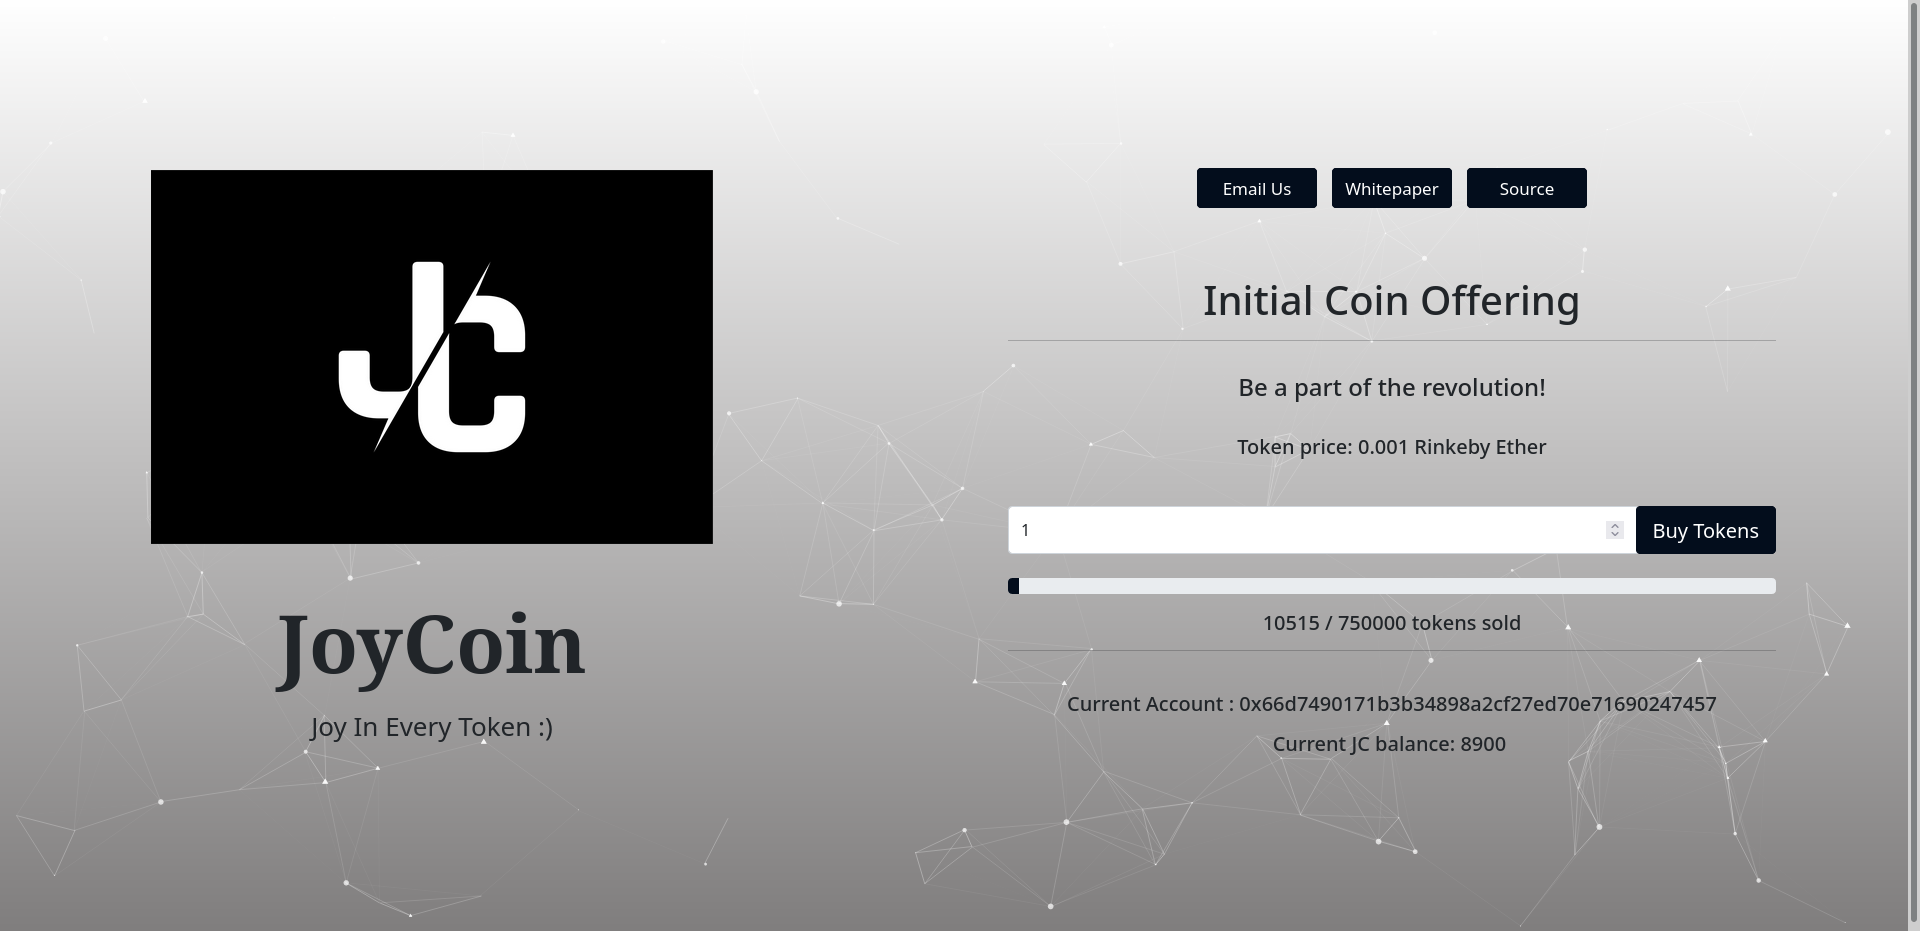
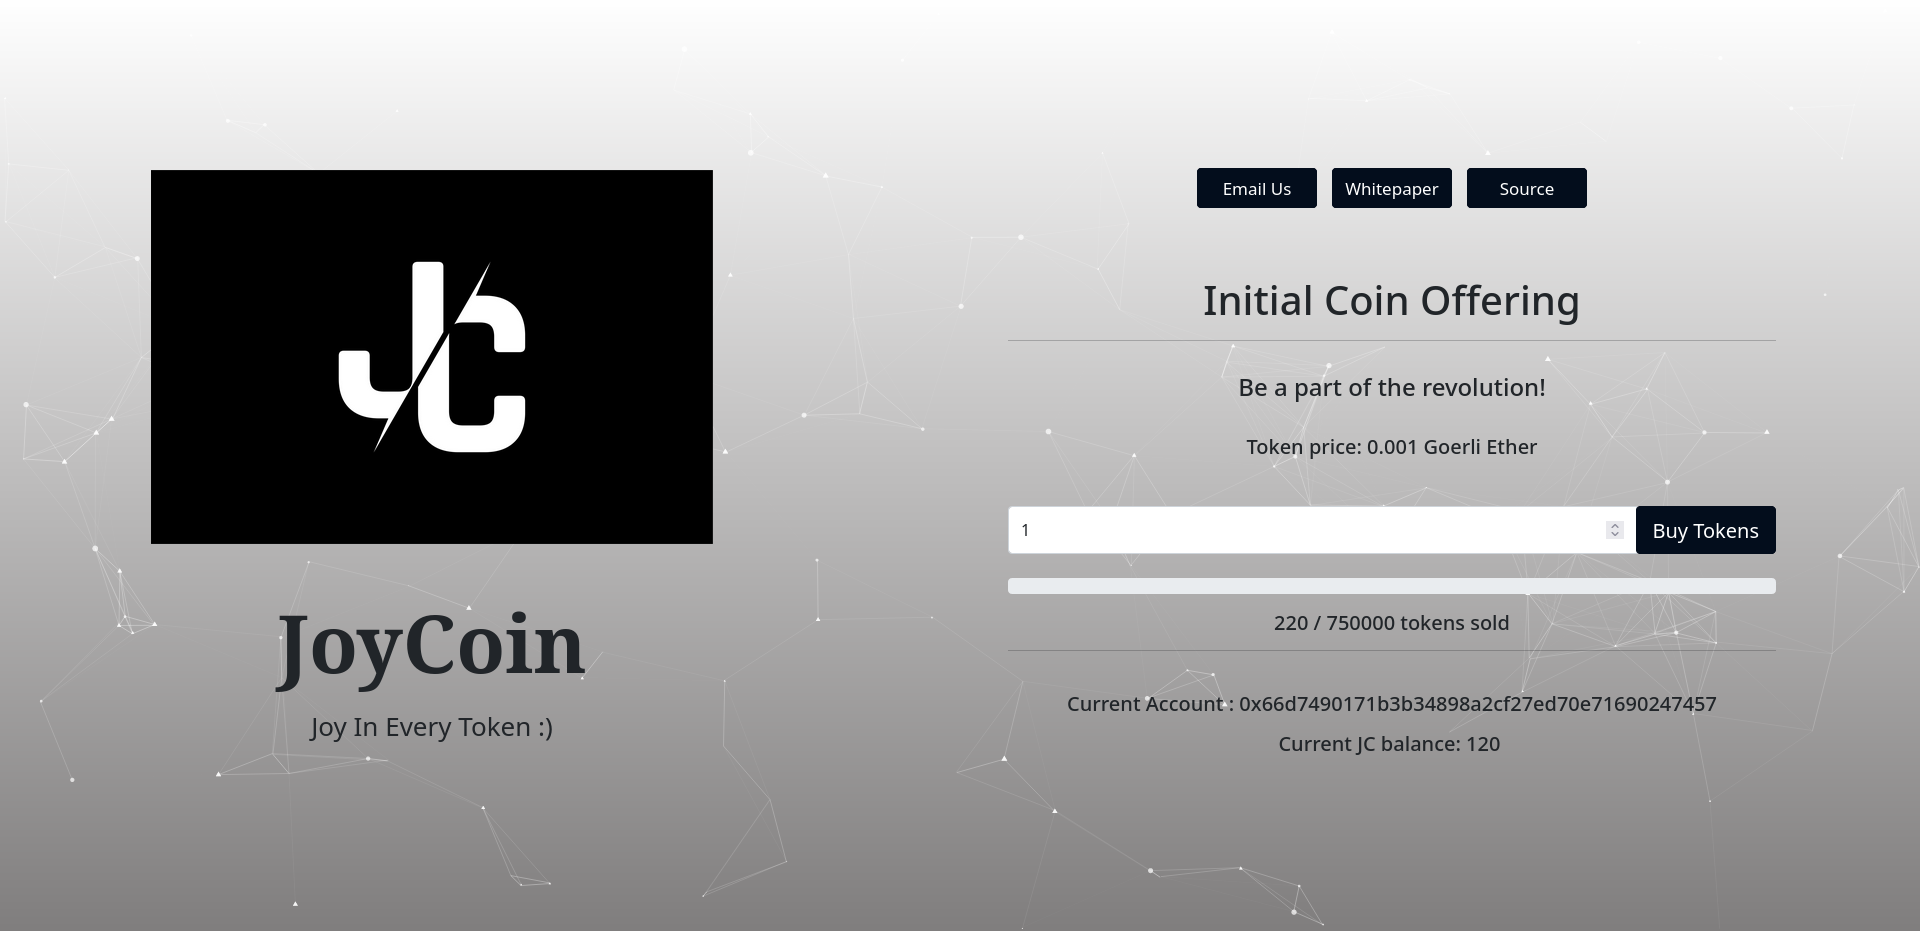
update README.md

diff --git a/README.md b/README.md
@@ -1,6 +1,6 @@
 ## About
 
-This project is a complete implementation of Ethereum's [ERC-20 token standard](https://github.com/ethereum/EIPs/blob/master/EIPS/eip-20.md)  on the [Rinkeby test network](https://www.rinkeby.io/#stats), along with a hosted [ICO website](https://njwardhan.github.io/JoyCoin/) for the same.
+This project is a complete implementation of Ethereum's [ERC-20 token standard](https://github.com/ethereum/EIPs/blob/master/EIPS/eip-20.md)  on the [Goerli test network](https://goerli.net/), along with a hosted [ICO website](https://njwardhan.github.io/JoyCoin/) for the same.
 
 ## Project screenshot
 
@@ -9,9 +9,9 @@ This project is a complete implementation of Ethereum's [ERC-20 token standard](
 ## Steps to purchase
 
 * Visit the project website
-* Connect your Ethereum wallet (Metamask) to the website (make sure that the Rinkeby testnet is selected)
+* Connect your Ethereum wallet (Metamask) to the website (make sure that the Goerli testnet is selected)
 * Enter the number of JCs to be purchased
-* Spend Rinkeby fake ethers (token price, gas fee) to complete the transaction
+* Spend Goerli fake ethers (token price, gas fee) to complete the transaction
 * Gain ownership of some JoyCoins :)
 
 ## To-do
@@ -19,3 +19,7 @@ This project is a complete implementation of Ethereum's [ERC-20 token standard](
 * Frontend can be bettered
 * Mainnet deployment with a proper project format
 
+<hr>
+
+- [JoyToken Etherscan](https://goerli.etherscan.io/address/0xb49F32C976059b187dE294Ab32c24802d68Bee06)
+- [JoyTokenSale Etherscan](https://goerli.etherscan.io/token/0xb49f32c976059b187de294ab32c24802d68bee06?a=0x4c2604dadfd737d0de6e19632f6f8efc6a56ecd2)
